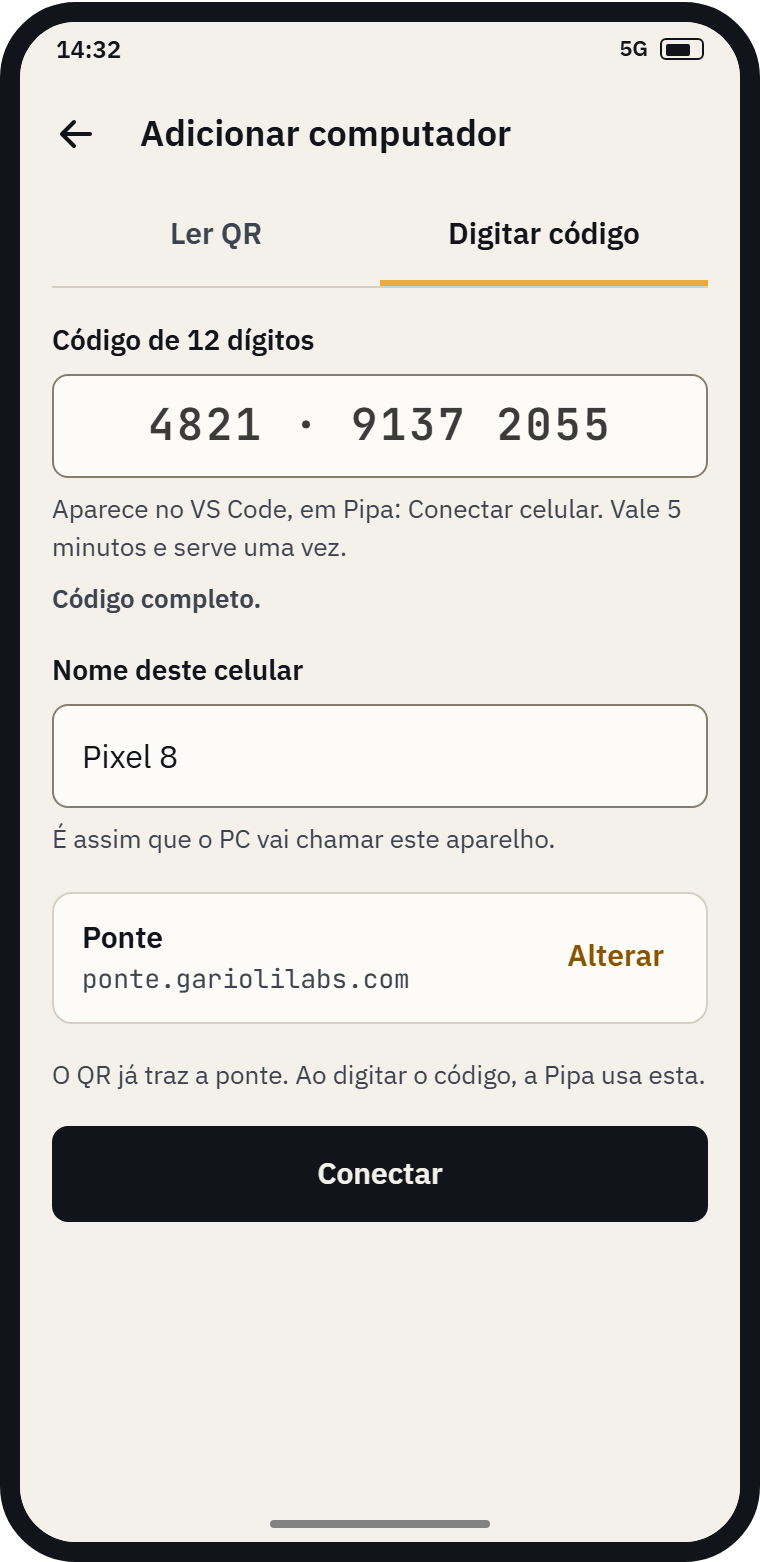
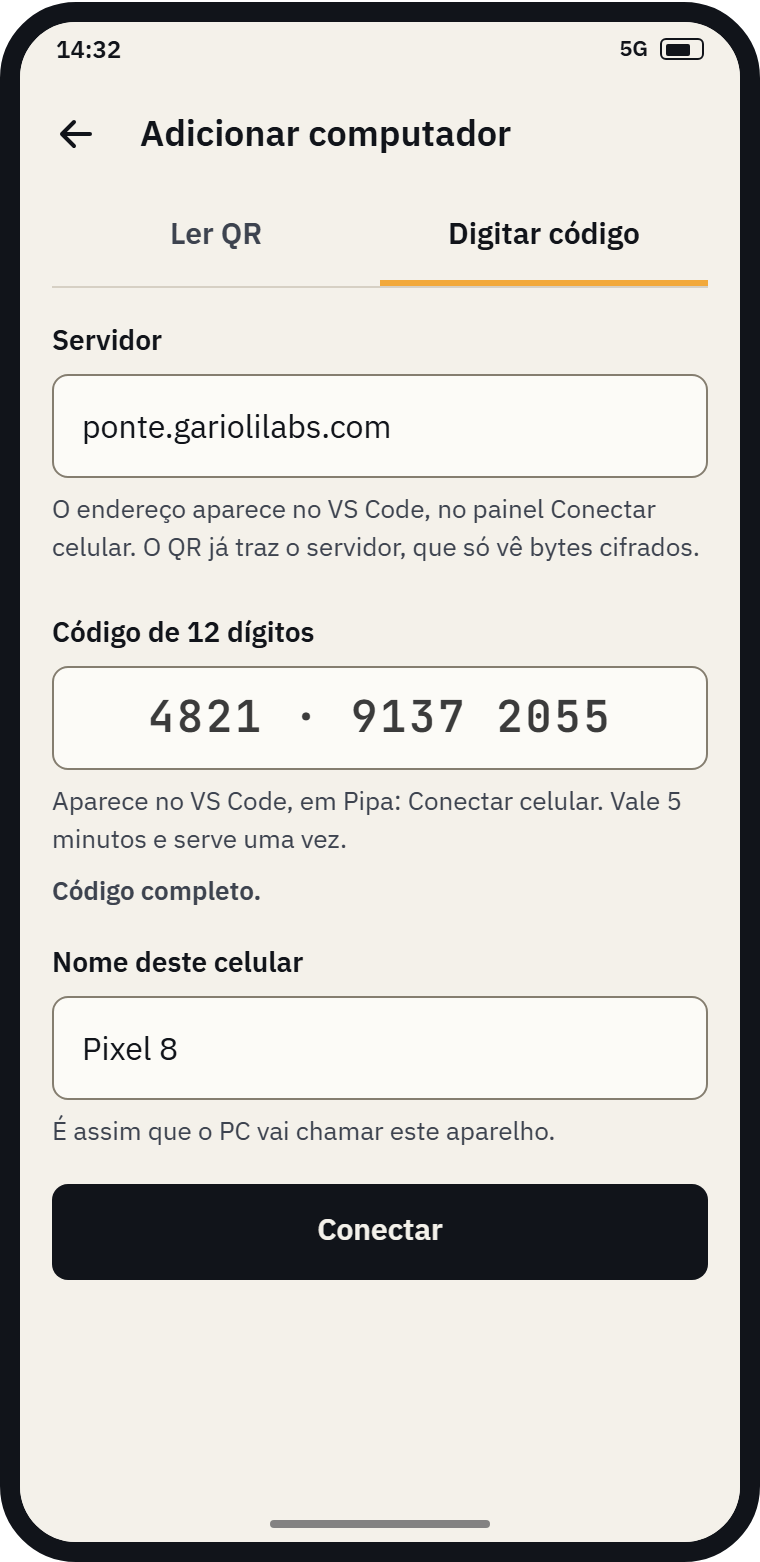
docs: README and screenshots for interface revision 2
Private server (no public bridge), 'biometria ou PIN', notices from other
programs (EX1), new screenshots for Avisos and the VS Code server prompt,
links to ADRs, TRCP/1, privacy and NFR documents.

Agent: Opus 5.5 high via subagent

diff --git a/README.md b/README.md
@@ -15,7 +15,7 @@
 </p>
 
 <p align="center">
-  <img src="docs/imagens/hero.png" width="880" alt="Três telas lado a lado: o app Android no tema claro com a lista de terminais do LUCAS-PC, o app no tema escuro com o terminal do Claude Code com a escrita liberada, e o painel Conectar celular do VS Code com o código de 12 dígitos e o QR">
+  <img src="docs/imagens/hero.png" width="880" alt="Três telas lado a lado: o app Android no tema claro com a lista de terminais do LUCAS-PC, o app no tema escuro com o terminal do Claude Code com a escrita liberada, e o painel Conectar celular do VS Code com o código de 12 dígitos, o servidor ponte.gariolilabs.com e o QR">
 </p>
 
 ## O que é
@@ -41,44 +41,78 @@ atenção.
       vez, usar o perfil <b>Terminal remoto</b> como padrão (só grava com o
       seu sim). Assim, todo terminal novo já nasce acessível pelo celular, em
       modo só leitura.</p>
+      <p>Na primeira vez que você rodar <b>Conectar celular</b>, ela pede o
+      endereço do seu <a href="#servidor-não-há-servidor-público">servidor</a>
+      e a chave de inscrição dele.</p>
+      <img src="docs/imagens/vscode-configurar-servidor.png" width="320" alt="VS Code pedindo o endereço do servidor da Pipa numa caixa de entrada, com o exemplo ponte.seudominio.com e o link Como instalar um servidor">
     </td>
     <td valign="top">
       <h3>2. Gere o código</h3>
-      <p>No VS Code, <b>Pipa: Conectar celular</b> mostra 12 dígitos e um QR.
-      O código vale 5 minutos e serve uma vez só.</p>
-      <img src="docs/imagens/vscode-conectar-celular.png" width="480" alt="Painel Conectar celular do VS Code com o código 4821 · 9137 2055, o QR, o aviso Vale por 5:00 e o estado Aguardando o celular">
+      <p>No VS Code, <b>Pipa: Conectar celular</b> mostra 12 dígitos, o
+      servidor e um QR. O código vale 5 minutos e serve uma vez só.</p>
+      <img src="docs/imagens/vscode-conectar-celular.png" width="480" alt="Painel Conectar celular do VS Code com o código 4821 · 9137 2055, o servidor ponte.gariolilabs.com com o botão Copiar, o QR, o aviso Vale por 5:00 e o estado Aguardando o celular">
     </td>
   </tr>
   <tr>
     <td valign="top">
       <h3>3. Digite no app</h3>
-      <p>No Android, <b>Adicionar computador</b>: leia o QR ou digite os
-      12 dígitos.</p>
-      <img src="docs/imagens/android-adicionar-computador-claro.png" width="220" alt="Tela Adicionar computador com o código 4821 · 9137 2055 digitado, o nome do celular Pixel 8 e o botão Conectar">
+      <p>No Android, <b>Adicionar computador</b>: leia o QR, que já traz o
+      servidor, ou digite o servidor e os 12 dígitos.</p>
+      <img src="docs/imagens/android-adicionar-computador-claro.png" width="220" alt="Tela Adicionar computador com o servidor ponte.gariolilabs.com, o código 4821 · 9137 2055 digitado, o nome do celular Pixel 8 e o botão Conectar">
     </td>
     <td valign="top">
       <h3>4. Confirme no PC</h3>
       <p>O celular e o VS Code mostram o mesmo código de confirmação de
       6 dígitos. Confira e clique em <b>Permitir</b>. Pronto: nas próximas
       vezes, basta abrir o app.</p>
-      <img src="docs/imagens/vscode-permitir-aparelho-modal.png" width="440" alt="Modal do VS Code: Permitir Pixel 8 neste computador? com o código de confirmação 482 913 e os botões Permitir e Recusar"><br>
+      <img src="docs/imagens/vscode-permitir-aparelho-modal.png" width="440" alt="Modal do VS Code: Permitir Pixel 8 neste computador? com o código de confirmação 482 913, o aviso de que a escrita pede biometria ou PIN e os botões Permitir e Recusar"><br>
       <img src="docs/imagens/android-confirmacao-no-pc-claro.png" width="180" alt="Tela do celular Confira no PC com o mesmo código de confirmação 482 913">
     </td>
   </tr>
 </table>
 
+## Servidor: não há servidor público
+
+O PC e o celular nunca se conectam direto. Os dois fazem conexões de
+**saída** até um servidor de retransmissão, a ponte `trc-bridge`, que junta
+as duas pontas e só repassa bytes cifrados. Por isso funciona atrás de
+CGNAT e sem porta aberta no PC.
+
+- **Não existe servidor público.** `ponte.gariolilabs.com` é **privada**:
+  serve só Sr. Garioli e quem ele autorizar, com uma chave de inscrição
+  emitida por ele.
+- **Cada pessoa hospeda a sua.** Quem não foi autorizado roda o mesmo
+  binário `trc-bridge` num servidor ou VPS mínimo (~US$ 4–6/mês) ou num
+  Raspberry Pi em casa.
+- **Raspberry atrás de CGNAT precisa de IP público.** Sem IP público
+  liberado pela operadora, o Raspberry em casa não é alcançável; nesse caso,
+  use um VPS.
+- **Só PCs com a chave de inscrição se registram no servidor.** A chave
+  fica no cofre do sistema, nunca nas configurações. O celular não precisa
+  dela.
+- **O QR traz o endereço do servidor;** quem digita os 12 dígitos informa o
+  servidor à parte. Se o QR trouxer um servidor diferente do dos seus outros
+  computadores, o app pergunta antes de usar.
+- **O servidor não lê nada:** vê só bytes cifrados, IPs, horários e
+  tamanhos.
+
+As instruções de instalação do `trc-bridge` são escritas junto com a
+especificação da ponte (P4) e a fase M6. Detalhes em
+[ADR-0004](docs/adr/0004-ponte-propria-e-codigo-de-12-digitos.md) e
+[ADR-0006](docs/adr/0006-hospedagem-da-ponte-adiada-para-m6.md).
+
 ## Telas
 
-Capturas do protótipo aprovado ([abra localmente](docs/interfaces/prototipo/index.html)
-para navegar pelos 59 estados). Os nomes de PC, aparelhos e comandos são
-fictícios.
+Capturas do protótipo aprovado, revisão 2 das interfaces (2026-09-26)
+([abra localmente](docs/interfaces/prototipo/index.html) para navegar pelos
+70 estados). Os nomes de PC, aparelhos e comandos são fictícios.
 
 ### Android
 
 <table>
   <tr>
     <td align="center" valign="top" width="33%">
-      <img src="docs/imagens/android-boas-vindas-claro.png" width="240" alt="Tela de boas-vindas com a marca, a promessa e os três passos"><br>
+      <img src="docs/imagens/android-boas-vindas-claro.png" width="240" alt="Tela de boas-vindas com a marca, a promessa de liberar a escrita com biometria ou PIN e os três passos, o primeiro deles configurar o servidor"><br>
       <sub><b>Boas-vindas.</b> Três passos, uma vez só.</sub>
     </td>
     <td align="center" valign="top" width="33%">
@@ -100,22 +134,37 @@ fictícios.
       <sub><b>Escrita liberada.</b> Faixa magenta com contagem regressiva.</sub>
     </td>
     <td align="center" valign="top">
-      <img src="docs/imagens/android-pedido-do-claude-claro.png" width="240" alt="Pedido do Claude Code para executar npm run build, com os botões Recusar e Permitir com biometria"><br>
+      <img src="docs/imagens/android-pedido-do-claude-claro.png" width="240" alt="Pedido do Claude Code para executar npm run build, com os botões Recusar e Permitir com biometria ou PIN"><br>
       <sub><b>Pedido do Claude.</b> Permitir ou recusar, sem teclar às cegas.</sub>
     </td>
   </tr>
   <tr>
     <td align="center" valign="top">
-      <img src="docs/imagens/android-aparelhos-e-seguranca-claro.png" width="240" alt="Aparelhos e segurança: chave no chip de segurança, bloqueio de capturas de tela, aparelhos com acesso e atividade recente"><br>
-      <sub><b>Aparelhos e segurança.</b> Quem tem acesso e o que fez.</sub>
+      <img src="docs/imagens/android-aparelhos-e-seguranca-claro.png" width="240" alt="Aparelhos e segurança: chave no chip de segurança, bloqueio de capturas de tela, biometria ou PIN ao abrir, avisos silenciados, o servidor ponte.gariolilabs.com alcançável, aparelhos com acesso e atividade recente"><br>
+      <sub><b>Aparelhos e segurança.</b> Quem tem acesso, por qual servidor, e o que fez.</sub>
     </td>
     <td align="center" valign="top">
-      <img src="docs/imagens/android-adicionar-computador-claro.png" width="240" alt="Tela Adicionar computador com o código digitado"><br>
-      <sub><b>Adicionar computador.</b> QR ou 12 dígitos.</sub>
+      <img src="docs/imagens/android-adicionar-computador-claro.png" width="240" alt="Tela Adicionar computador com o campo Servidor preenchido e o código digitado"><br>
+      <sub><b>Adicionar computador.</b> QR, ou servidor e 12 dígitos.</sub>
     </td>
     <td align="center" valign="top">
       <img src="docs/imagens/android-confirmacao-no-pc-claro.png" width="240" alt="Tela Confira no PC com o código de confirmação 482 913"><br>
       <sub><b>Confira no PC.</b> O mesmo código nos dois lados.</sub>
+    </td>
+  </tr>
+</table>
+
+**Avisos de outros programas** ([EX1](docs/exigencias-externas.md)):
+
+<table>
+  <tr>
+    <td align="center" valign="top" width="50%">
+      <img src="docs/imagens/android-avisos-claro.png" width="240" alt="Terminais do LUCAS-PC com a seção Avisos no topo: dois cartões do claude-hadouken, Consumo em 80 % e Tarefa terminada, cada um com Dispensar, e o botão Dispensar todos"><br>
+      <sub><b>Avisos.</b> Um cartão por aviso, acima dos terminais.</sub>
+    </td>
+    <td align="center" valign="top" width="50%">
+      <img src="docs/imagens/android-avisos-silenciar-claro.png" width="240" alt="Menu do cartão de aviso com a opção Silenciar avisos de claude-hadouken e o botão Cancelar"><br>
+      <sub><b>Silenciar.</b> Por origem, neste celular; reativa em Aparelhos e segurança.</sub>
     </td>
   </tr>
 </table>
@@ -133,7 +182,7 @@ fictícios.
       <sub>Escrita liberada</sub>
     </td>
     <td align="center" valign="top" width="33%">
-      <img src="docs/imagens/android-pedido-do-claude-escuro.png" width="240" alt="Pedido do Claude no tema escuro"><br>
+      <img src="docs/imagens/android-pedido-do-claude-escuro.png" width="240" alt="Pedido do Claude no tema escuro, com o botão Permitir com biometria ou PIN"><br>
       <sub>Pedido do Claude</sub>
     </td>
   </tr>
@@ -146,11 +195,11 @@ Só API estável e UI nativa. A única webview é o painel de pareamento.
 <table>
   <tr>
     <td align="center" valign="top" width="50%">
-      <img src="docs/imagens/vscode-conectar-celular.png" width="420" alt="Painel Conectar celular com código, QR e contagem de 5 minutos"><br>
-      <sub><b>Conectar celular.</b> Código de 12 dígitos, QR e validade de 5 min.</sub>
+      <img src="docs/imagens/vscode-conectar-celular.png" width="420" alt="Painel Conectar celular com código, servidor com Copiar, QR e contagem de 5 minutos"><br>
+      <sub><b>Conectar celular.</b> Código de 12 dígitos, servidor, QR e validade de 5 min.</sub>
     </td>
     <td align="center" valign="top" width="50%">
-      <img src="docs/imagens/vscode-permitir-aparelho.png" width="420" alt="Modal Permitir Pixel 8 neste computador?"><br>
+      <img src="docs/imagens/vscode-permitir-aparelho.png" width="420" alt="Modal Permitir Pixel 8 neste computador? sobre o painel Conectar celular"><br>
       <sub><b>Permitir aparelho.</b> O modal nomeia o celular e mostra o código de confirmação.</sub>
     </td>
   </tr>
@@ -164,23 +213,31 @@ Só API estável e UI nativa. A única webview é o painel de pareamento.
       <sub><b>Painel Pipa.</b> Aparelhos, terminais remotos e atividade recente.</sub>
     </td>
   </tr>
+  <tr>
+    <td align="center" valign="top" colspan="2">
+      <img src="docs/imagens/vscode-configurar-servidor.png" width="600" alt="Caixa de entrada do VS Code: Endereço do servidor da Pipa (ex.: ponte.seudominio.com), com o link Como instalar um servidor"><br>
+      <sub><b>Configurar servidor.</b> Pedido na primeira vez que você conecta um celular; depois vem a chave de inscrição.</sub>
+    </td>
+  </tr>
 </table>
 
 ## Por que a Pipa
 
 - **Nenhum terceiro no caminho.** Sem Tailscale, sem Microsoft Dev Tunnels,
-  sem contas. O PC e o celular se conectam, por saída, a uma **ponte sua**
-  (Raspberry, VPS ou nuvem), e a ponte só repassa bytes cifrados de ponta a
-  ponta. Nenhuma porta fica aberta no PC.
+  sem contas. O PC e o celular se conectam, por saída, a um **servidor
+  próprio** (ponte `trc-bridge` num VPS ou num Raspberry), e ele só repassa
+  bytes cifrados de ponta a ponta. Nenhuma porta fica aberta no PC. Não há
+  servidor público: veja [Servidor](#servidor-não-há-servidor-público).
 - **Contexto mínimo no celular, nada guardado nele.** O celular recebe o
   estado de cada terminal e um resumo curto. A tela vem sob demanda e fica só
   na memória, com captura de tela bloqueada por padrão. O celular guarda
   apenas a lista de PCs pareados e a própria chave.
 - **Só leitura por padrão.** Para digitar, você libera **um** terminal por
-  1, 5 ou 15 minutos com a biometria. A faixa de modo fica sempre visível, e
-  o PC mostra quem está no controle.
-- **Aprovações destrutivas pedem a biometria de novo**, mesmo com a escrita
-  liberada. Recusar nunca pede.
+  1, 5 ou 15 minutos com **biometria ou PIN** (o padrão ou a senha do
+  aparelho também valem). A faixa de modo fica sempre visível, e o PC mostra
+  quem está no controle.
+- **Aprovações destrutivas e encerrar terminal pedem biometria ou PIN de
+  novo**, mesmo com a escrita liberada. Recusar nunca pede.
 - **Corte de acesso no PC.** Um comando derruba todas as conexões na hora,
   sem confirmação, e oferece **Reativar**. O corte continua valendo depois de
   reiniciar o PC.
@@ -188,6 +245,16 @@ Só API estável e UI nativa. A única webview é o painel de pareamento.
   pelos hooks dele como aprovações estruturadas ("executar `npm run build`?"),
   e não como teclas digitadas às cegas. Pedido já respondido no PC não aceita
   resposta.
+- **Avisos de outros programas.** O agente vai oferecer uma entrada local de
+  avisos: programas do próprio PC mandam um aviso curto ao celular pelo canal
+  cifrado da Pipa. O primeiro cliente é o
+  [claude-hadouken](https://github.com/Garioli-Labs/claude-hadouken), com
+  alertas de consumo e avisos de tarefa terminada. No app, os avisos
+  aparecem na seção **Avisos** do computador, e cada origem pode ser
+  silenciada no celular. A notificação é opaca ("Novo aviso em LUCAS-PC"),
+  num canal próprio. Transporte, autenticação de quem chama e formato da
+  mensagem ainda estão em desenho
+  ([EX1](docs/exigencias-externas.md)).
 - **Terminais que sobrevivem ao VS Code.** Um agente próprio é dono dos
   terminais; a extensão só os exibe. Fechar o VS Code não mata as sessões.
 - **Leve de rodar.** As metas abaixo são **metas, ainda não medições**: a
@@ -214,7 +281,7 @@ flowchart LR
     VS <-->|IPC local| AG
     CC -->|hook no 127.0.0.1| AG
   end
-  BR["Ponte trc-bridge (sua)<br/>repassa bytes cifrados<br/>sem disco, sem contas, sem chaves"]
+  BR["Servidor: ponte trc-bridge<br/>(o seu, ou um autorizado)<br/>repassa bytes cifrados<br/>sem disco, sem contas, sem chaves"]
   subgraph CEL["Celular"]
     APP["App Android Pipa"]
   end
@@ -233,10 +300,12 @@ flowchart LR
 - **Ponte burra por construção.** Ela junta as duas pontas pelo número de
   encontro e copia bytes. Não guarda nada em disco, não tem banco e não
   conhece nenhuma chave. É um binário único que roda num Raspberry Pi, num
-  VPS mínimo ou num contêiner. Onde ela vai morar é decidido na fase M6.
+  VPS mínimo ou num contêiner. Onde `ponte.gariolilabs.com` vai morar é
+  decidido na fase M6.
 
-Detalhes em [auditoria](docs/auditoria-arquitetura-2026-09-26.md) e
-[conexão por código](docs/proposta-conexao-por-codigo-2026-09-26.md).
+Detalhes em [auditoria](docs/auditoria-arquitetura-2026-09-26.md),
+[conexão por código](docs/proposta-conexao-por-codigo-2026-09-26.md),
+[ADRs](docs/adr/README.md) e [protocolo TRCP/1](docs/spec/trcp-1.md).
 
 ## Segurança e privacidade
 
@@ -256,16 +325,20 @@ LUCAS-PC"). O conteúdo é buscado pelo túnel quando você abre o app.
 - Quem tenta adivinhar tem **uma** tentativa por código (1 chance em
   100 milhões). Um erro invalida o código de forma visível, e não existe
   ataque offline, nem para quem controla a ponte.
+- O QR leva o código e o endereço do servidor; o código digitado não leva o
+  servidor, por isso o app tem o campo **Servidor**.
 - O PC ainda pede confirmação: o modal nomeia o aparelho e mostra o código
   de confirmação de 6 dígitos, que precisa ser igual ao do celular.
 - Depois disso, as chaves ficam fixadas (Android Keystore no celular, cofre
   do Windows no PC), e cada sessão usa TLS 1.3 mútuo dentro do fluxo
   repassado pela ponte.
 - A ponte vê apenas IPs, horários e tamanhos. Esse metadado é aceito e
-  declarado.
+  declarado. Em `ponte.gariolilabs.com`, quem o vê é a Garioli Labs, e só
+  de usuários autorizados.
 
 A parte criptográfica passa por revisão de segurança dedicada antes de
-qualquer código.
+qualquer código. Política de dados completa em
+[privacidade](docs/privacy.md).
 
 ## Andamento
 
@@ -274,10 +347,10 @@ qualquer código.
 | Auditoria da arquitetura | ✅ [feita](docs/auditoria-arquitetura-2026-09-26.md) |
 | Conexão por código, sem terceiros | ✅ [aprovada](docs/proposta-conexao-por-codigo-2026-09-26.md) |
 | Visão, nome e marca | ✅ [aprovados](docs/visao.md) |
-| Interfaces (VS Code + Android) e protótipo | ✅ [aprovadas](docs/interfaces/README.md) |
-| ADRs das decisões | ⏳ próxima |
-| Protocolo TRCP/1 | ⏳ |
-| Privacidade e requisitos não funcionais | ⏳ |
+| Interfaces (VS Code + Android) e protótipo | ✅ [aprovadas](docs/interfaces/README.md); revisão 2 aplicada |
+| ADRs das decisões | ✅ [feitos](docs/adr/README.md), aguardam revisão |
+| Protocolo TRCP/1 | ✅ [feito](docs/spec/trcp-1.md), aguarda revisão |
+| Privacidade e requisitos não funcionais | ✅ [feitos](docs/privacy.md) ([requisitos](docs/requisitos-nao-funcionais.md)), aguardam revisão |
 | Ponte e segurança (revisão Fable max) | ⏳ |
 | Planos por fase (M0–M8) | ⏳ |
 | Desenvolvimento | 🔒 aguardando aprovação do planejamento |
@@ -290,6 +363,12 @@ Mapa completo do planejamento:
 - [Visão do produto](docs/visao.md)
 - [Auditoria técnica e arquitetural](docs/auditoria-arquitetura-2026-09-26.md)
 - [Conexão por código (ponte própria)](docs/proposta-conexao-por-codigo-2026-09-26.md)
+- [Decisões de arquitetura (ADRs 0001–0014)](docs/adr/README.md)
+- [Protocolo TRCP/1](docs/spec/trcp-1.md)
+- [Privacidade](docs/privacy.md)
+- [Requisitos não funcionais](docs/requisitos-nao-funcionais.md)
+- [Exigências externas](docs/exigencias-externas.md) (EX1: avisos de outros
+  programas)
 - [Mapa do planejamento](docs/plans/00-mapa-do-planejamento.md)
 - [Interfaces](docs/interfaces/README.md):
   - [fluxos](docs/interfaces/fluxos.md)
@@ -298,6 +377,7 @@ Mapa completo do planejamento:
   - [identidade visual](docs/interfaces/identidade-visual.md)
   - [textos PT-BR/EN](docs/interfaces/textos.md)
   - [exigências para o protocolo](docs/interfaces/exigencias-para-o-protocolo.md)
+  - [ajustes da revisão 2](docs/interfaces/ajustes-pendentes-2026-09-26.md)
   - [protótipo navegável](docs/interfaces/prototipo/index.html): abra o
     arquivo localmente no navegador.
 - [Conceitos de logo](docs/marca/pipa-conceitos-de-logo.html)
@@ -325,8 +405,18 @@ monoespaçada onde o dado é de terminal. Cada cor tem um significado só.
 
 **Preciso de Tailscale ou de uma VPN?**
 Não. A Pipa não depende de Tailscale, Microsoft Dev Tunnels nem de contas de
-terceiros. O PC e o celular fazem conexões de saída até a sua ponte, por isso
-funcionam atrás de CGNAT e sem porta aberta no PC.
+terceiros. O PC e o celular fazem conexões de saída até o servidor (a
+ponte), por isso funcionam atrás de CGNAT e sem porta aberta no PC.
+
+**Posso usar o servidor `ponte.gariolilabs.com`?**
+Só com autorização de Sr. Garioli: ele é privado. Sem autorização, você
+hospeda o seu, com o mesmo `trc-bridge`, num VPS ou num Raspberry. Raspberry
+em casa atrás de CGNAT só funciona com IP público da operadora; sem ele, use
+um VPS.
+
+**Não tenho biometria cadastrada. Consigo usar?**
+Sim. O PIN, o padrão ou a senha do aparelho também liberam a escrita. Sem
+biometria nem bloqueio de tela no celular, o app só lê.
 
 **Funciona no iPhone?**
 Ainda não. O iOS fica fora do escopo inicial; o app é Android.
